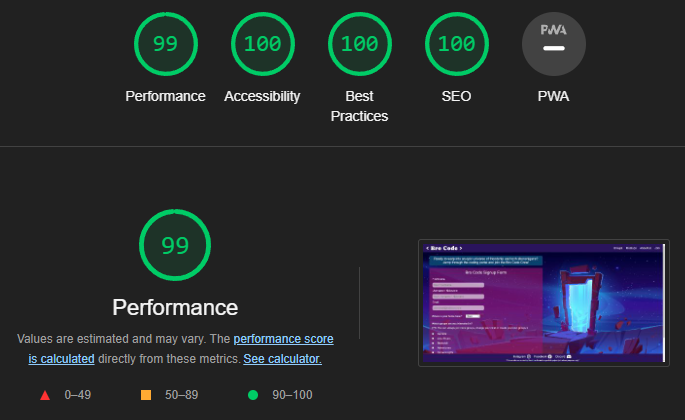
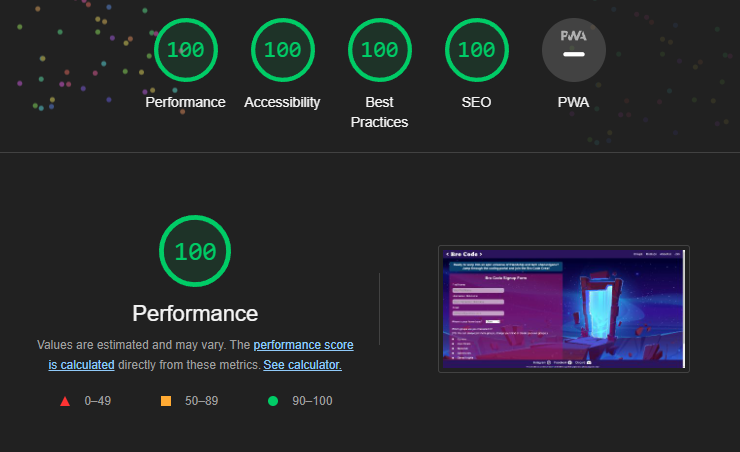
Reduce thank you page background image size

diff --git a/assets/css/style.css b/assets/css/style.css
@@ -1085,7 +1085,7 @@ input {
     }
 
     #thank-you-background-image {
-        background-image: url(../images/thank-you-background-image-medium-recized.webp);
+        background-image: url(../images/thank-you-background-image-medium.webp);
     }
 
     #thank-you-cover-text .thank-you-welcome-text,
